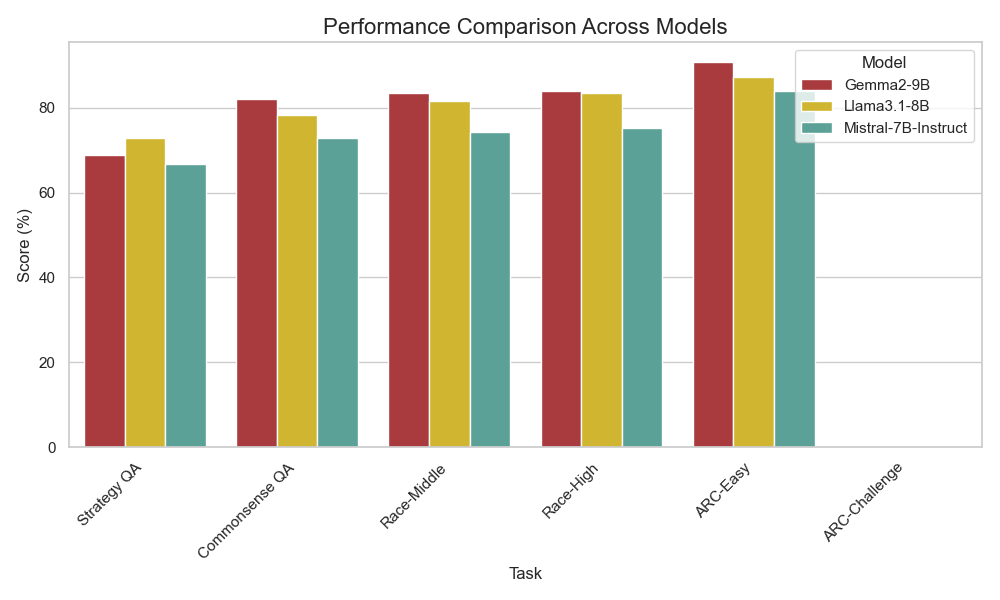
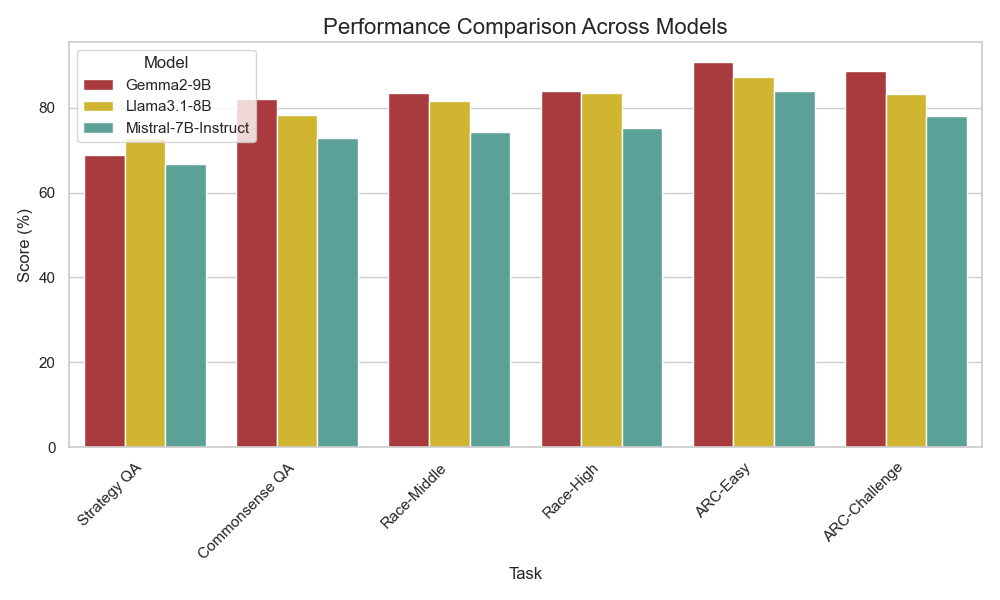
Add graphs

Changed region(s): [[0.775, 0.09, 0.992, 0.75], [0.062, 0.09, 0.279, 0.24]]

diff --git a/graphs.py b/graphs.py
@@ -5,9 +5,9 @@ import seaborn as sns
 # Datos
 data = {
     "Task": ["Strategy QA", "Commonsense QA", "Race-Middle", "Race-High", "ARC-Easy", "ARC-Challenge"],
-    "Gemma2-9B": [68.8, 82.0, 83.6, 84.0, 90.9, 0],
-    "Llama3.1-8B": [72.8, 78.4, 81.6, 83.6, 87.2, 0],
-    "Mistral-7B-Instruct": [66.8, 72.8, 74.4, 75.2, 84.0, 0]
+    "Gemma2-9B": [68.8, 82.0, 83.6, 84.0, 90.9, 88.8],
+    "Llama3.1-8B": [72.8, 78.4, 81.6, 83.6, 87.2, 83.2],
+    "Mistral-7B-Instruct": [66.8, 72.8, 74.4, 75.2, 84.0, 78.0]
 }
 
 # Convertimos a DataFrame
@@ -39,3 +39,148 @@ plt.savefig("graphs/evaluations.png")
 
 # Mostrar gráfico
 plt.show()
+
+# Calcular el promedio para cada tarea
+df2 = df
+
+df2['Average'] = df.drop(columns=['Task']).mean(axis=1)
+
+# Configuración del gráfico
+plt.figure(figsize=(10, 6))
+
+# Gráfico de barras del promedio
+sns.barplot(data=df2.reset_index(), x="Task", y="Average", palette="viridis")
+
+# Configuración del gráfico
+plt.title("Average Score per Task", fontsize=16)
+plt.xlabel("Task", fontsize=12)
+plt.ylabel("Average Score (%)", fontsize=12)
+plt.xticks(rotation=45, ha="right")
+plt.tight_layout()
+
+# Guardar gráfico
+plt.savefig("graphs/average_scores.png")
+
+# Mostrar gráfico
+plt.show()
+
+# Calcular el promedio para cada modelo
+model_averages = df.drop(columns=['Task', 'Average']).mean()
+
+# Configuración del gráfico
+plt.figure(figsize=(8, 6))
+
+# Gráfico de barras del promedio por modelo
+sns.barplot(x=model_averages.index, y=model_averages.values, palette=custom_palette)
+
+# Configuración del gráfico
+plt.title("Average Performance by Model", fontsize=16)
+plt.xlabel("Model", fontsize=12)
+plt.ylabel("Average Score (%)", fontsize=12)
+plt.ylim(0, 100)
+plt.tight_layout()
+
+# Guardar gráfico
+plt.savefig("graphs/average_performance_by_model.png")
+
+# Mostrar gráfico
+plt.show()
+
+# Convertimos a DataFrame
+df = pd.DataFrame(data).set_index("Task")
+
+# Configuración del gráfico
+plt.figure(figsize=(10, 6))
+sns.heatmap(
+    df,
+    annot=True,           # Mostrar valores
+    fmt="f",              # Formato de los números
+    cmap="YlGnBu",        # Paleta de colores
+    linewidths=0.5,       # Líneas entre celdas
+    cbar_kws={"label": "Score (%)"}  # Etiqueta de la barra de color
+)
+
+# Personalización
+plt.title("Performance Heatmap of Models", fontsize=16, pad=20)
+plt.xlabel("Model", fontsize=12)
+plt.ylabel("Task", fontsize=12)
+plt.tight_layout()
+
+# Guardar el gráfico
+plt.savefig("graphs/heatmap.png")
+
+# Mostrar el gráfico
+plt.show()
+
+juegos = ["Strategy QA", "Commonsense QA", "Race-Middle", "Race-High", "ARC-Easy", "ARC-Challenge"]
+porcentajes = [70.4, 80.8, 88.8, 85.2, 90.0, 84.4]
+promedio = [69.5, 77.7, 79.9, 80.9, 87.3, 83.3]
+
+# Configuración del gráfico
+plt.figure(figsize=(10, 6))
+
+# Graficar los rendimientos y los promedios como líneas
+plt.plot(juegos, porcentajes, marker='o', linestyle='-', color='skyblue', label='Rendimiento')
+plt.plot(juegos, promedio, marker='x', linestyle='--', color='orange', label='Promedio')
+
+# Añadir los porcentajes sobre los puntos
+for i, value in enumerate(porcentajes):
+    plt.text(i, value + 0.5, f'{value}%', ha='center', fontsize=12)
+
+for i, value in enumerate(promedio):
+    plt.text(i, value + 0.5, f'{value}%', ha='center', fontsize=12)
+
+# Personalización del gráfico
+plt.title("Rendimiento por Juego con Promedio", fontsize=16)
+plt.xlabel("Juego", fontsize=12)
+plt.ylabel("Porcentaje (%)", fontsize=12)
+plt.xticks(rotation=45)
+plt.ylim(0, 100)
+plt.tight_layout()
+
+# Mostrar leyenda
+plt.legend()
+
+# Mostrar gráfico
+plt.show()
+
+# Datos para cada tarea
+commonsense_qa = [167/250, (167+63)/250, (167+63+10)/250, (167+63+10+5)/250]
+race_middle = [187/250, (187+43)/250, (187+43+13)/250, (187+43+13+3)/250]
+race_high = [163/250, (163+65)/250, (163+65+6)/250, (163+65+6+1)/250]
+arc_easy = [212/250, (212+31)/250, (212+31+2)/250, (212+31+2+1)/250]
+arc_challenge = [188/250, (188+42)/250, (188+42+10)/250, (188+42+10+3)/250]
+
+# Iteraciones
+iteraciones = [1, 2, 3, 4]
+
+# Configuración del gráfico
+plt.figure(figsize=(10, 6))
+
+# Graficamos cada tarea
+plt.plot(iteraciones, commonsense_qa, marker='o', linestyle='-', label="Commonsense QA", markersize=8)
+plt.plot(iteraciones, race_middle, marker='s', linestyle='-', label="Race Middle", markersize=8)
+plt.plot(iteraciones, race_high, marker='^', linestyle='-', label="Race High", markersize=8)
+plt.plot(iteraciones, arc_easy, marker='d', linestyle='-', label="ARC Easy", markersize=8)
+plt.plot(iteraciones, arc_challenge, marker='p', linestyle='-', label="ARC Challenge", markersize=8)
+
+# Personalización del gráfico
+plt.title("Consensus Evolution by Iteration", fontsize=16)
+plt.xlabel("Iteration", fontsize=12)
+plt.ylabel("Consensus (%)", fontsize=12)
+plt.xticks(iteraciones)  # Asegura que las iteraciones se muestren correctamente
+plt.yticks([i/10 for i in range(11)])  # Para mostrar porcentajes de 0 a 1
+plt.grid(True, which='both', linestyle='--', linewidth=0.5)
+plt.tight_layout()
+
+plt.ylim(0.55, 1)  # Limitar el eje y de 0.5 a 1
+
+# Mostrar leyenda
+plt.legend(title="Tasks")
+
+# Guardar el gráfico
+plt.savefig("graphs/consensus.png")
+
+# Mostrar gráfico
+plt.show()
+
